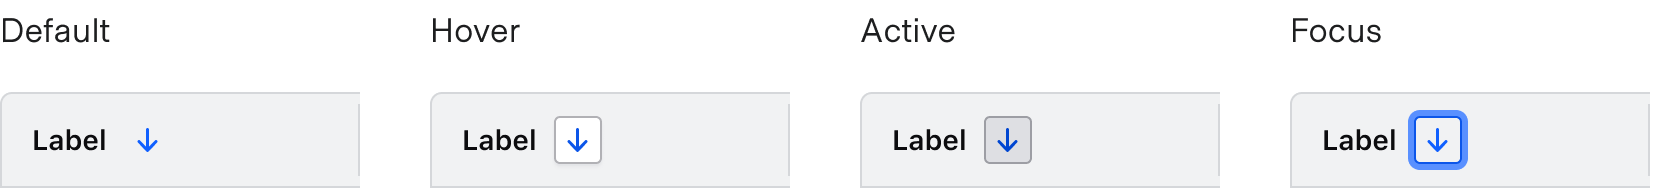
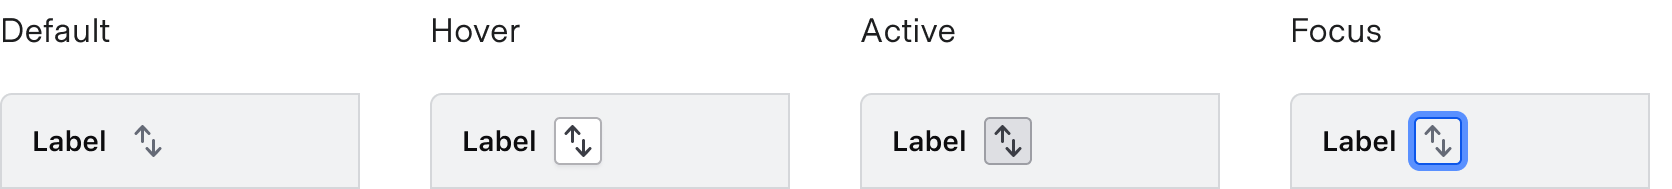
image update

diff --git a/website/docs/components/table/table/partials/specifications/states.md b/website/docs/components/table/table/partials/specifications/states.md
@@ -1,6 +1,7 @@
 ## States
 
-### Header columns
-Only sortable header columns have state variants. Non-sortable header columns are not interactive and therefore do not have interactive states.
+## Sort button
 
-![Header column state example](/assets/components/table/table-header-states.png)
+Sortable header columns have interactive state variants, indicating their interactivity. Non-sortable header columns are static and do not include state variants.
+
+![Table cells anatomy](/assets/components/table/table-sort-button-sorted-states.png)
